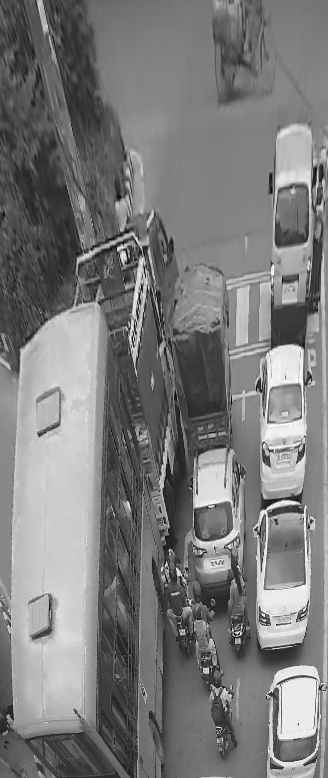
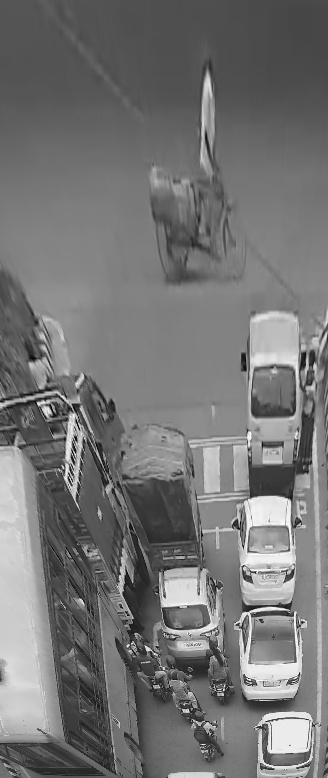
function made 1.1

diff --git a/Task1.cpp b/Task1.cpp
@@ -5,57 +5,8 @@
 using namespace std;
 using namespace cv;
 
-vector<Point2f>src_pts;
-vector<Point2f>dest_pts;
-
-void getPoint(int event, int x, int y, int flags, void* userdata) {
-	if (event == EVENT_LBUTTONDOWN && src_pts.size() < 4) {
-		Point2f p(x, y);
-		src_pts.push_back(p);
-	}
-}
-void init() {
-	dest_pts.push_back(Point2f(472, 52));
-	dest_pts.push_back(Point2f(472, 830));
-	dest_pts.push_back(Point2f(800, 830));
-	dest_pts.push_back(Point2f(800, 52));
-}
 
 int main() {
-	init();
-
-	Mat img = imread("traffic.jpg", IMREAD_GRAYSCALE);
-
-	if (img.empty()) return 0;
-
-	namedWindow("Image", 1);	
-
-	setMouseCallback("Image", getPoint, NULL);
-
-	imshow("Image", img); 
-
-	waitKey(0);
-	
-	int height = img.rows;
-	int width = img.cols;
-	
-	Size size(height, width); 
-	Mat img_dest = Mat::zeros(size, CV_8UC3); 
-
-	Mat homo = findHomography(src_pts,dest_pts);
-
-	warpPerspective(img, img_dest, homo, size);
-	
-	imshow("Perspective Change",img_dest);
-	imwrite("Transformed.jpg", img_dest);
-	waitKey(0);
-	
-	
-	Mat cropedImage = img_dest(Rect(472, 52, 328, 778));
-	
-	imshow("Final", cropedImage);
-	imwrite("CroppedImage.jpg", cropedImage);
-	waitKey(0);
-	
+	transform_and_crop("traffic.jpg")
 	return 0;
 }

diff --git a/transform_crop.cpp b/transform_crop.cpp
@@ -24,7 +24,7 @@ void init() {
 	dest_pts.push_back(Point2f(800, 52));
 }
  
-void transform_and_crop(string myimage) {
+public void transform_and_crop(string myimage) {
     init();
 
     Mat img = imread(myimage, IMREAD_GRAYSCALE);
